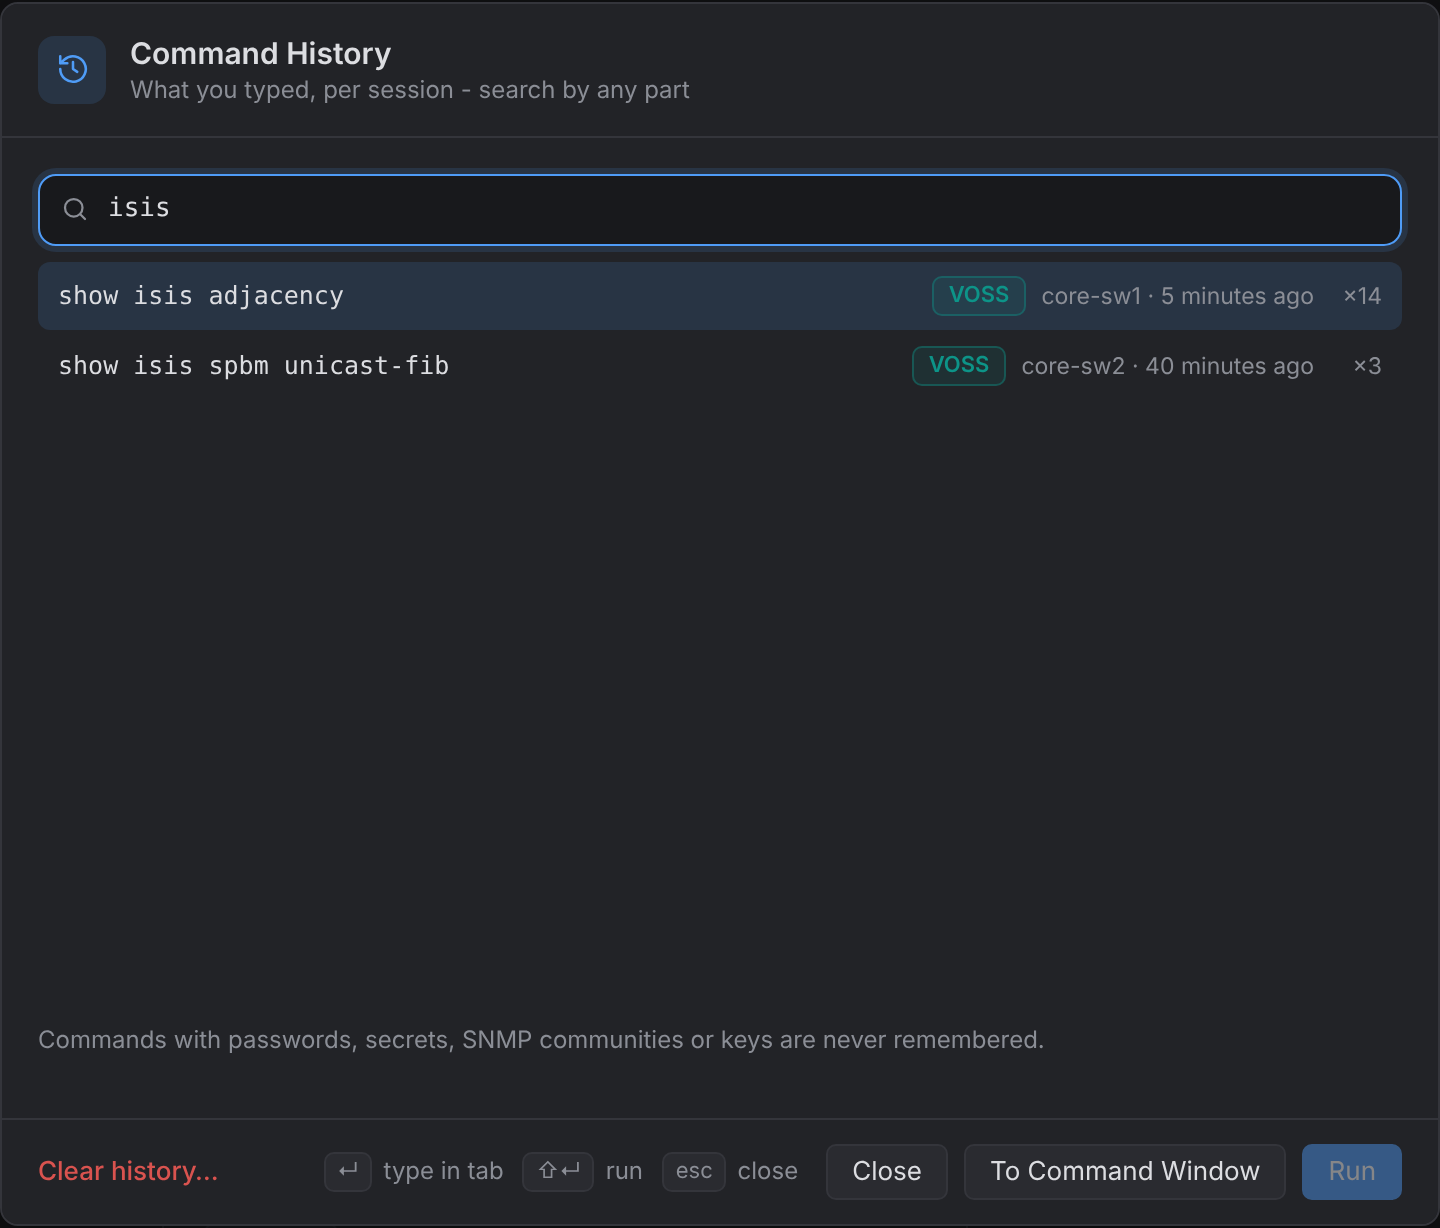
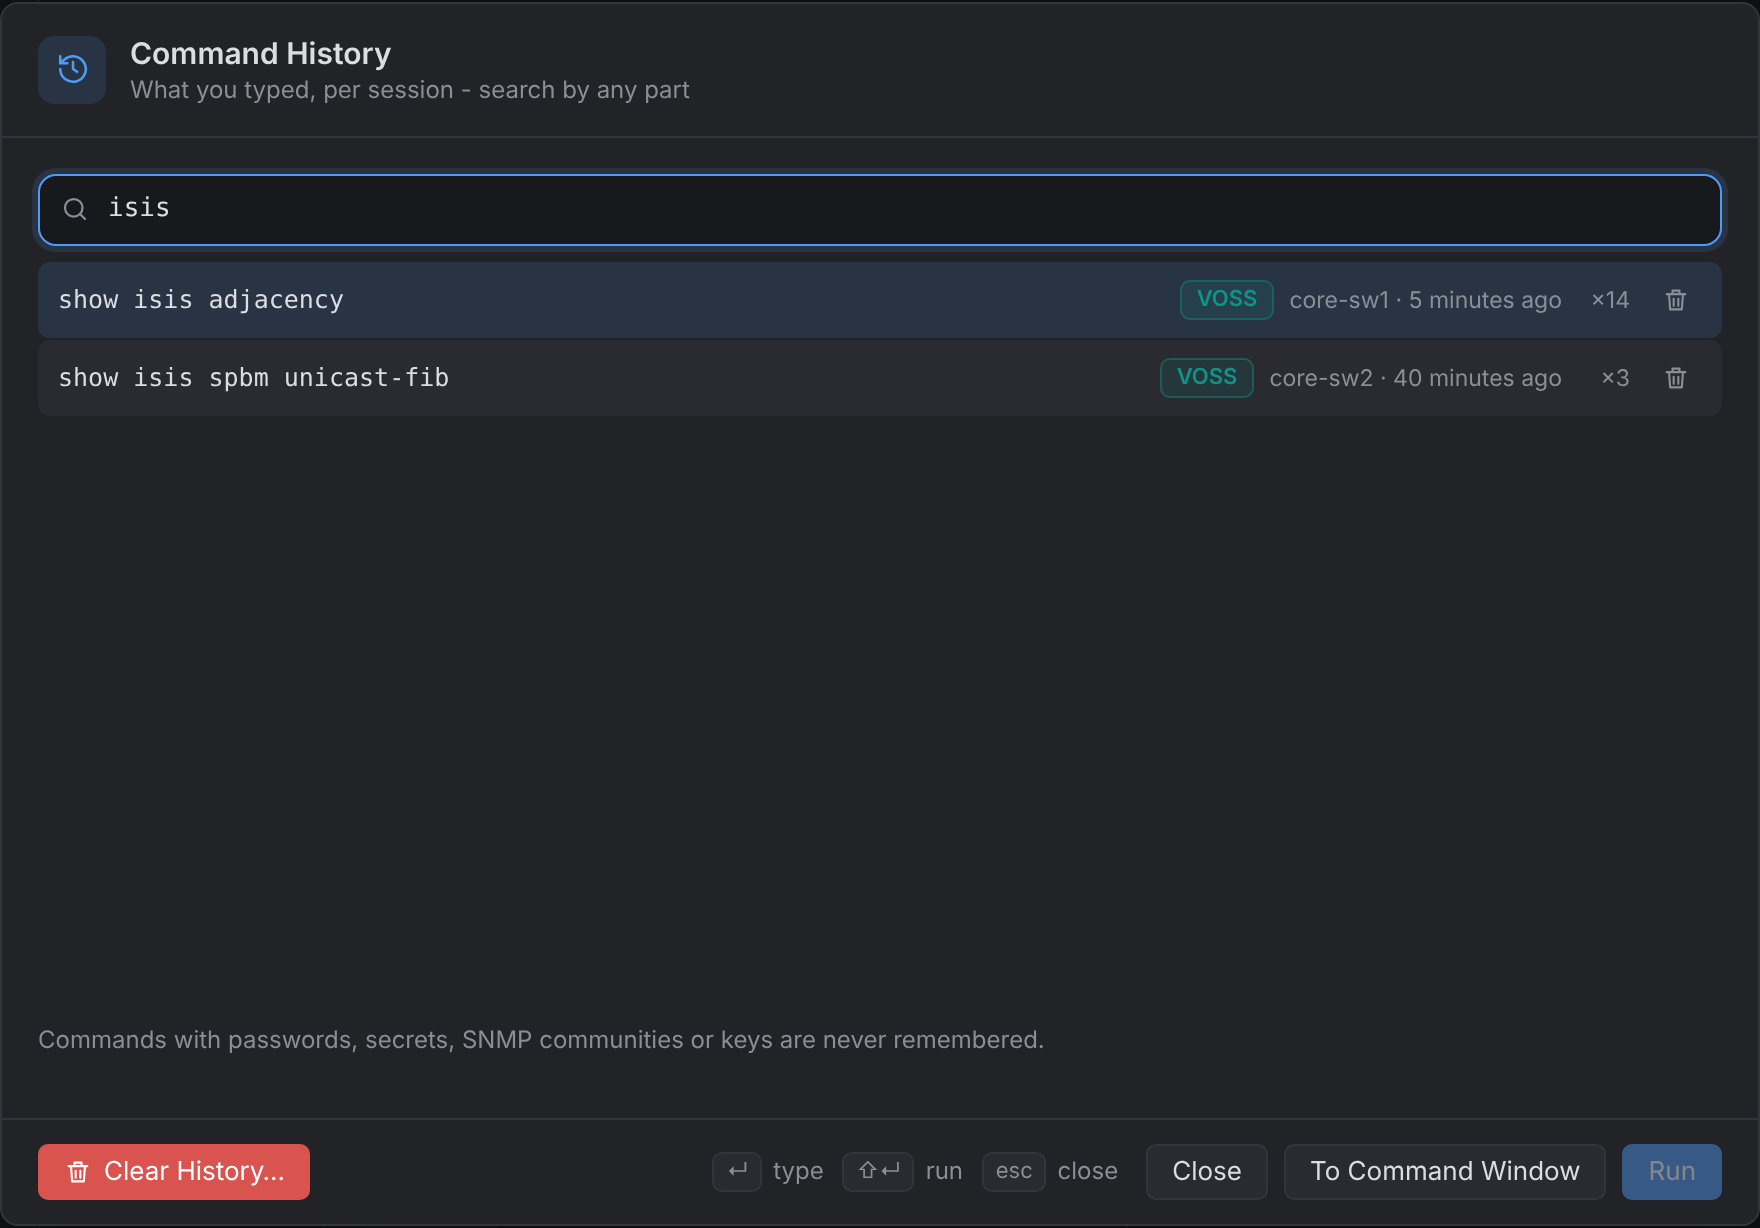
Command History: wider, remove one command, clear by device type

diff --git a/frontend/src/app/dialogs/history.ts b/frontend/src/app/dialogs/history.ts
@@ -32,6 +32,7 @@ import { Icon } from '../components/icon';
               <span class="m cl-only">{{ e.deviceType || '' }}{{ e.deviceType && (e.title || e.session) ? ' · ' : '' }}{{ e.title || e.session }} · {{ when(e.time) }}{{ e.count > 1 ? ' · ×' + e.count : '' }}</span>
               <span class="mm md-only">@if (e.deviceType) { <span class="dt" [style.--dt]="dtColor(e.deviceType)">{{ e.deviceType }}</span> }
                 <span class="m">{{ e.title || e.session }} · {{ when(e.time) }}</span>@if (e.count > 1) { <span class="m n">×{{ e.count }}</span> }</span>
+              <button type="button" class="icon-btn rm" [title]="onlyDt() && dt() ? 'Remove this command from the ' + dt() + ' history' : 'Remove this command from history'" (click)="$event.stopPropagation(); remove(e)" (dblclick)="$event.stopPropagation()"><app-icon name="trash" [size]="14" /></button>
             </div>
           } @empty {
             <div class="empty">{{ hist.entries().length ? 'No command matches.' : 'Commands you type in terminals and the Command Window appear here.' }}</div>
@@ -42,18 +43,53 @@ import { Icon } from '../components/icon';
           Commands with passwords, secrets, SNMP communities or keys are never remembered.</p>
       </div>
       <div class="modal-foot">
-        <button type="button" class="danger-text" [class.danger-link]="modern()" (click)="clear()" [disabled]="!hist.entries().length">{{ modern() ? 'Clear history…' : 'Clear History' }}</button>
+        <button type="button" class="danger" (click)="openClear()" [disabled]="!hist.entries().length"><app-icon name="trash" [size]="14" /> Clear History…</button>
         <span class="spacer"></span>
-        <span class="keys md-only"><kbd>↵</kbd> type in tab <kbd>⇧↵</kbd> run <kbd>esc</kbd> close</span>
+        <span class="keys md-only"><kbd>↵</kbd> type <kbd>⇧↵</kbd> run <kbd>esc</kbd> close</span>
         <button type="button" (click)="ui.close()">Close</button>
         <button type="button" [disabled]="!current()" (click)="toWindow(current()!)">To Command Window</button>
         <button type="button" class="cl-only" [disabled]="!current() || !tabs.active()" (click)="type(current()!)">Type in Tab</button>
         <button type="button" class="primary" [disabled]="!current() || !tabs.active()" (click)="run(current()!)">Run</button>
       </div>
+      @if (clearing()) {
+        <div class="cl-back" (click)="clearing.set(false)">
+          <div class="cl-card" (click)="$event.stopPropagation()">
+            <div class="ct"><span class="cic"><app-icon name="trash" [size]="16" /></span><span>Clear Command History<span class="cs">Forget the commands typed on these device types</span></span></div>
+            <label class="ck all"><input type="checkbox" [checked]="picked().size === types().length" [indeterminate]="picked().size > 0 && picked().size < types().length" (change)="pickAll($any($event.target).checked)" /><span class="tl">All device types</span><span class="n">{{ hist.entries().length }}</span></label>
+            <div class="cl-list">
+              @for (t of types(); track t.type) {
+                <label class="ck"><input type="checkbox" [checked]="picked().has(t.type)" (change)="pick(t.type, $any($event.target).checked)" />
+                  <span class="tl">@if (t.type) { <span class="dt" [style.--dt]="dtColor(t.type)">{{ t.type }}</span> } @else { No device type (local shells, Quick Connect) }</span><span class="n">{{ t.n }}</span></label>
+              }
+            </div>
+            <div class="cf">
+              <button type="button" (click)="clearing.set(false)">Cancel</button>
+              <button type="button" class="danger" [disabled]="!picked().size" (click)="doClear()">Clear {{ pickedCount() }} {{ pickedCount() === 1 ? 'Command' : 'Commands' }}</button>
+            </div>
+          </div>
+        </div>
+      }
     </div>
   </div>`,
   styles: [`
-    .hist { width: min(820px, 94vw); }
+    .hist { width: min(880px, 94vw); position: relative; }
+    .modal-foot { flex-wrap: nowrap; > button { white-space: nowrap; flex: none; } button.danger { display: inline-flex; align-items: center; gap: 6px; } }
+    .it { position: relative; }
+    .rm { flex: none; width: 26px; height: 24px; padding: 0; justify-content: center; visibility: hidden; &:hover { color: var(--danger) !important; } }
+    .it:hover .rm, .it.on .rm { visibility: visible; }
+    .it > .rm { position: absolute; right: 6px; top: 4px; }
+    .cl-back { position: absolute; inset: 0; z-index: 5; display: grid; place-items: center; background: color-mix(in srgb, var(--bg) 55%, transparent); border-radius: inherit; }
+    .cl-card { width: min(420px, 90%); max-height: 80%; display: flex; flex-direction: column; gap: 6px; padding: 16px; border: 1px solid var(--border); border-radius: 10px; background: var(--panel); box-shadow: 0 12px 40px rgb(0 0 0 / .35);
+      .ct { display: flex; gap: 10px; align-items: center; font-weight: 650; margin-bottom: 6px; > span:last-child { display: flex; flex-direction: column; } }
+      .cs { font-weight: 400; color: var(--muted); font-size: calc(12px * var(--ui-scale, 1)); }
+      .cic { width: 30px; height: 30px; border-radius: 8px; display: grid; place-items: center; flex: none; color: var(--danger); background: color-mix(in srgb, var(--danger) 14%, transparent); }
+      .cl-list { overflow: auto; display: flex; flex-direction: column; gap: 2px; }
+      .ck { display: flex; align-items: center; gap: 10px; min-height: 30px; padding: 0 8px; border-radius: 6px; cursor: pointer; &:hover { background: var(--hover); }
+        input { margin: 0; accent-color: var(--danger); } .tl { flex: 1; } .n { color: var(--muted); font-variant-numeric: tabular-nums; } }
+      .ck.all { border-bottom: 1px solid var(--border); border-radius: 6px 6px 0 0; font-weight: 600; }
+      .cf { display: flex; justify-content: flex-end; gap: 8px; margin-top: 10px; } }
+    .dt { display: inline-flex; align-items: center; height: 20px; padding: 0 7px; border-radius: 5px; font-size: calc(11px * var(--ui-scale, 1)); font-weight: 600;
+      color: var(--dt); border: 1px solid color-mix(in srgb, var(--dt) 40%, transparent); background: color-mix(in srgb, var(--dt) 12%, transparent); }
     .top { display: flex; gap: 12px; align-items: center; margin-bottom: 8px; .q { flex: 1; } }
     .inline { display: inline-flex; gap: 6px; align-items: center; white-space: nowrap; font-size: calc(12.5px * var(--ui-scale, 1)); }
     .list { height: 46vh; overflow: auto; border: 1px solid var(--border); border-radius: 6px; }
@@ -64,19 +100,21 @@ import { Icon } from '../components/icon';
     .danger-text { color: var(--danger); } .spacer { flex: 1; }
     .qwrap { flex: 1; display: flex; position: relative; align-items: center; }
     :host-context(.modern) {
-      .hist { width: min(720px, 94vw); }
+      .hist { width: min(880px, 94vw); }
       .qi { position: absolute; left: 11px; color: var(--muted); pointer-events: none; }
       .q { height: 36px; padding-left: 34px; border-radius: var(--r-lg); font-family: var(--mono); &:focus { box-shadow: 0 0 0 3px var(--accent-soft); } }
       .list { height: 44vh; border: 0; border-radius: 0; display: flex; flex-direction: column; gap: 1px; }
       .it { flex-direction: row; align-items: center; gap: 10px; padding: 7px 10px; border: 0; border-radius: var(--r);
         .c { flex: 1; min-width: 0; font-size: calc(12.5px * var(--ui-scale, 1)); white-space: nowrap; overflow: hidden; text-overflow: ellipsis; } }
+      .it > .rm { position: static; }
       .it:hover { background: var(--surface-2); }
       .it.on { background: var(--accent-soft); }
       .mm { display: inline-flex !important; align-items: center; gap: 8px; flex: none; .n { min-width: 26px; text-align: right; } }
       .m { white-space: nowrap; font-size: calc(11.5px * var(--ui-scale, 1)); }
       .dt { display: inline-flex; align-items: center; height: 20px; padding: 0 7px; border-radius: 5px; font-size: calc(11px * var(--ui-scale, 1)); font-weight: 600;
         color: var(--dt); border: 1px solid color-mix(in srgb, var(--dt) 40%, transparent); background: color-mix(in srgb, var(--dt) 12%, transparent); }
-      .keys { color: var(--muted); font-size: calc(12px * var(--ui-scale, 1)); margin-right: 6px;
+      .cl-card { background: var(--surface); border-color: var(--line); border-radius: var(--r-lg); }
+      .keys { color: var(--muted); font-size: calc(12px * var(--ui-scale, 1)); margin-right: 6px; white-space: nowrap;
         kbd { display: inline-flex; align-items: center; height: 20px; padding: 0 6px; margin: 0 2px 0 6px; border-radius: 5px; border: 1px solid var(--line); background: var(--surface-2); font: inherit; font-size: 11px; } }
     }
   `],
@@ -120,7 +158,12 @@ export class HistoryDialog implements AfterViewInit {
     } else if (ev.key === 'Enter' && this.current()) {
       ev.preventDefault();
       if (ev.shiftKey) this.run(this.current()!); else this.type(this.current()!);
-    } else if (ev.key === 'Escape') this.ui.close();
+    } else if (ev.key === 'Delete' && ev.shiftKey && this.current()) {
+      ev.preventDefault();
+      void this.remove(this.current()!);
+    } else if (ev.key === 'Escape') {
+      if (this.clearing()) this.clearing.set(false); else this.ui.close();
+    }
   }
 
   type(e: HistoryEntry) {
@@ -146,8 +189,40 @@ export class HistoryDialog implements AfterViewInit {
     this.ui.cwInsert.set(e.cmd);
   }
 
-  async clear() {
-    if (!(await this.ui.confirm('Clear History', 'Forget every remembered command?', 'Clear', true))) return;
-    await this.hist.clear().catch(e => this.ui.error(e));
+  readonly clearing = signal(false);
+  readonly types = signal<{ type: string; n: number }[]>([]);
+  readonly picked = signal<Set<string>>(new Set());
+  readonly pickedCount = computed(() => this.types().filter(t => this.picked().has(t.type)).reduce((n, t) => n + t.n, 0));
+
+  /** Clear History…: choose the device types (the active tab's is ticked). */
+  openClear() {
+    const types = this.hist.typeCounts();
+    this.types.set(types);
+    const mine = types.find(t => this.dt() && t.type.toLowerCase() === this.dt()!.toLowerCase());
+    this.picked.set(new Set(mine ? [mine.type] : types.map(t => t.type)));
+    this.clearing.set(true);
+  }
+  pick(type: string, on: boolean) {
+    this.picked.update(s => { const n = new Set(s); if (on) n.add(type); else n.delete(type); return n; });
+  }
+  pickAll(on: boolean) { this.picked.set(new Set(on ? this.types().map(t => t.type) : [])); }
+
+  async doClear() {
+    const types = [...this.picked()];
+    const all = types.length === this.types().length;
+    try {
+      if (all) await this.hist.clear(); else await this.hist.clearTypes(types);
+    } catch (e) { this.ui.error(e); return; }
+    this.clearing.set(false);
+    this.sel.set(0);
+    setTimeout(() => this.q().nativeElement.focus());
+  }
+
+  /** Forgets one command (only for the device type when Only … is ticked). */
+  async remove(e: HistoryEntry) {
+    const dt = this.onlyDt() ? this.dt() ?? '' : '';
+    await this.hist.remove(e.cmd, dt).catch(err => this.ui.error(err));
+    this.sel.update(i => Math.min(i, Math.max(0, this.results().length - 1)));
+    this.ui.toast(`Removed "${e.cmd.length > 60 ? e.cmd.slice(0, 57) + '…' : e.cmd}" from the command history.`);
   }
 }

diff --git a/frontend/src/app/core/history.service.ts b/frontend/src/app/core/history.service.ts
@@ -60,6 +60,31 @@ export class History {
     this.entries.set([]);
   }
 
+  /** Forgets one command (with a device type: only where typed on it). */
+  async remove(cmd: string, deviceType = '') {
+    await this.backend.historyRemove(cmd, deviceType);
+    const dt = deviceType.toLowerCase();
+    this.entries.update(l => l.filter(e => !(e.cmd === cmd && (!dt || (e.deviceType ?? '').toLowerCase() === dt))));
+  }
+
+  /** Forgets the commands typed on these device types ('' = no device type). */
+  async clearTypes(types: string[]) {
+    await this.backend.historyClearTypes(types);
+    const set = new Set(types.map(t => t.toLowerCase()));
+    this.entries.update(l => l.filter(e => !set.has((e.deviceType ?? '').toLowerCase())));
+  }
+
+  /** Device types with how many commands each ('' = none), most first. */
+  typeCounts(): { type: string; n: number }[] {
+    const m = new Map<string, { type: string; n: number }>();
+    for (const e of this.entries()) {
+      const k = (e.deviceType ?? '').toLowerCase();
+      const c = m.get(k) ?? { type: e.deviceType ?? '', n: 0 };
+      c.n++; m.set(k, c);
+    }
+    return [...m.values()].sort((a, b) => b.n - a.n);
+  }
+
   /** Commands containing every word of q, those starting with it first; one per command text. */
   search(q: string, deviceType = '', limit = 200): HistoryEntry[] {
     const words = q.toLowerCase().split(/\s+/).filter(Boolean);

diff --git a/frontend/src/app/core/backend.ts b/frontend/src/app/core/backend.ts
@@ -118,6 +118,8 @@ export class Backend {
   historyAdd(e: Partial<HistoryEntry>) { return this.call<void>('HistoryAdd', e); }
   historyList() { return this.call<HistoryEntry[]>('HistoryList'); }
   historyClear() { return this.call<void>('HistoryClear'); }
+  historyRemove(cmd: string, deviceType: string) { return this.call<void>('HistoryRemove', cmd, deviceType); }
+  historyClearTypes(deviceTypes: string[]) { return this.call<void>('HistoryClearTypes', deviceTypes); }
   startTab(id: string, cols: number, rows: number) { return this.call<void>('StartTab', id, cols, rows); }
   sendInput(id: string, data: string) { return this.call<void>('SendInput', id, data); }
   sendBinary(id: string, b64: string) { return this.call<void>('SendBinary', id, b64); }

diff --git a/history_app.go b/history_app.go
@@ -2,6 +2,7 @@ package main
 
 import (
 	"path/filepath"
+	"strings"
 	"sync"
 	"time"
 
@@ -42,3 +43,26 @@ func (a *App) HistoryList() []history.Entry {
 
 // HistoryClear forgets every remembered command.
 func (a *App) HistoryClear() error { return a.history().Clear() }
+
+// HistoryRemove forgets one command (every time it was typed); with a device
+// type only where it was typed on that device type.
+func (a *App) HistoryRemove(cmd, deviceType string) error {
+	_, err := a.history().Remove(func(e history.Entry) bool {
+		return e.Cmd == cmd && (deviceType == "" || strings.EqualFold(e.DeviceType, deviceType))
+	})
+	return err
+}
+
+// HistoryClearTypes forgets the commands typed on these device types; "" stands
+// for commands without a device type.
+func (a *App) HistoryClearTypes(deviceTypes []string) error {
+	_, err := a.history().Remove(func(e history.Entry) bool {
+		for _, t := range deviceTypes {
+			if strings.EqualFold(e.DeviceType, t) {
+				return true
+			}
+		}
+		return false
+	})
+	return err
+}

diff --git a/internal/history/history_test.go b/internal/history/history_test.go
@@ -32,3 +32,17 @@ func TestAddDedupeCap(t *testing.T) {
 		t.Fatal("not cleared")
 	}
 }
+
+func TestRemove(t *testing.T) {
+	s := &Store{File: filepath.Join(t.TempDir(), "h.json")}
+	now := time.Now()
+	_ = s.Add(Entry{Cmd: "show vlan", DeviceType: "EXOS", Session: "a"}, now)
+	_ = s.Add(Entry{Cmd: "show vlan", DeviceType: "VOSS", Session: "b"}, now)
+	_ = s.Add(Entry{Cmd: "ls", Session: "c"}, now)
+	if n, _ := s.Remove(func(e Entry) bool { return e.DeviceType == "EXOS" }); n != 1 {
+		t.Fatalf("removed %d", n)
+	}
+	if l := s.List(); len(l) != 2 || l[1].DeviceType != "VOSS" {
+		t.Fatalf("left %+v", l)
+	}
+}

diff --git a/internal/history/history.go b/internal/history/history.go
@@ -98,3 +98,23 @@ func (s *Store) Clear() error {
 	s.loaded, s.entries = true, nil
 	return s.save()
 }
+
+// Remove forgets the commands for which drop returns true and tells how many
+// were removed.
+func (s *Store) Remove(drop func(Entry) bool) (int, error) {
+	s.mu.Lock()
+	defer s.mu.Unlock()
+	s.load()
+	kept := s.entries[:0:0]
+	for _, e := range s.entries {
+		if !drop(e) {
+			kept = append(kept, e)
+		}
+	}
+	n := len(s.entries) - len(kept)
+	if n == 0 {
+		return 0, nil
+	}
+	s.entries = kept
+	return n, s.save()
+}

diff --git a/docs/USER_GUIDE.md b/docs/USER_GUIDE.md
@@ -479,9 +479,11 @@ Limits: MAC addresses are only visible on **this computer's own network** (the s
 - Type words to search (`isis adj`); *Only VOSS* (the active tab's device type) narrows it down.
 - **Enter** types the command in the active tab so you can check or edit it before pressing Enter; **Shift+Enter** / *Run* runs it; *To Command Window* puts it in the Command Window.
 - The command is taken from the terminal line without the prompt, so commands completed with Tab or recalled with ↑ are remembered as the device shows them.
-- Commands that may contain a secret - `password`, `secret`, `community`, `key-string`, `pre-shared`, tokens - are **never** remembered, nor anything typed at a password prompt. Global Options → General → *Remember typed commands* turns history off; *Clear History* forgets everything. History stays on this computer (`history.json` in the data folder).
+- Commands that may contain a secret - `password`, `secret`, `community`, `key-string`, `pre-shared`, tokens - are **never** remembered, nor anything typed at a password prompt. Global Options → General → *Remember typed commands* turns history off; the trash button on a command (or Shift+Delete) forgets that one command - for example one that was mistyped or that a device no longer supports; with *Only <device type>* ticked only on that device type. **Clear History…** asks which device types to forget (the active tab's is ticked; *All device types* forgets everything). History stays on this computer (`history.json` in the data folder).
 
 ![Command History](screenshots/history.png)
+
+![Clear Command History](screenshots/history-clear.png)
 
 **Suggestions in the Command Window**: after two characters the Command Window suggests commands from your history and the Command Library - those of the active tab's device type first, never another device type's. ↑/↓ chooses, **Tab** (or Enter on a chosen one) takes it, Esc closes; library commands with `{{values}}` ask for them.
 

diff --git a/CHANGELOG.md b/CHANGELOG.md
@@ -52,6 +52,7 @@ A cleaner, more modern look, now the default. The **Classic** layout (toolbar, t
 * **SFTP through a jump station**: after `sudo su -`, `sudo -i`, `su` or a new shell in the terminal an SFTP tab follows, the folder and user are read again from the new shell, so an SFTP tab opened before becoming root follows root.
 * **SFTP**: the copy arrows, **Sync** (→ / ←) and **Diff** sit between the panes; select one file on each side and Diff opens Compare with both (line numbers, ignore whitespace and timestamps). The transfer bar always shows the speed, and a finished transfer its average speed.
 * **Session Manager**: device types line up in one column (room for any IPv4 address), and a new hover card (device icon, name, address, then Via, device type, facts, MAC and login in two columns) that opens faster.
+* **Command History**: wider, a tidy footer, a trash button on each command (or Shift+Delete) to forget a mistyped or no longer supported command, and **Clear History…** (a red button) asks which device types to forget.
 * Passwords & Credentials: Export / Import no longer overlap the fields above them.
 * **Docs**: README, User Guide and FEATURES updated for 0.21, with new screenshots of every page in the modern layout.
 * Corners are less rounded (dialogs, cards, buttons); on macOS the title bar is as tall as the window buttons need, so the sidebar button and the tabs line up with them.

diff --git a/docs/FEATURES.md b/docs/FEATURES.md
@@ -173,7 +173,7 @@ Everything Termwright does, one line each. Details and screenshots are in the [U
 - **Button Bar**: buttons that send text (with escapes), run an action and/or a script; to one or all tabs.
 - **Command Library**: saved commands in folders, multi-line, `{{variables}}` with defaults, for chosen device types.
 - **Commands ▾**: library commands for the active tab's device type, put in the box to check before sending.
-- **Command History** (`Mod+Y`): every typed command with session, device type and time; search, type, run or reuse.
+- **Command History** (`Mod+Y`): every typed command with session, device type and time; search, type, run or reuse; remove a single command, or clear the history of chosen device types.
 - **Secrets never remembered**: commands with passwords, secrets, communities or keys, and anything typed at a password prompt.
 - **Key Map**: any key combination sends text, runs an action and/or a script.
 
